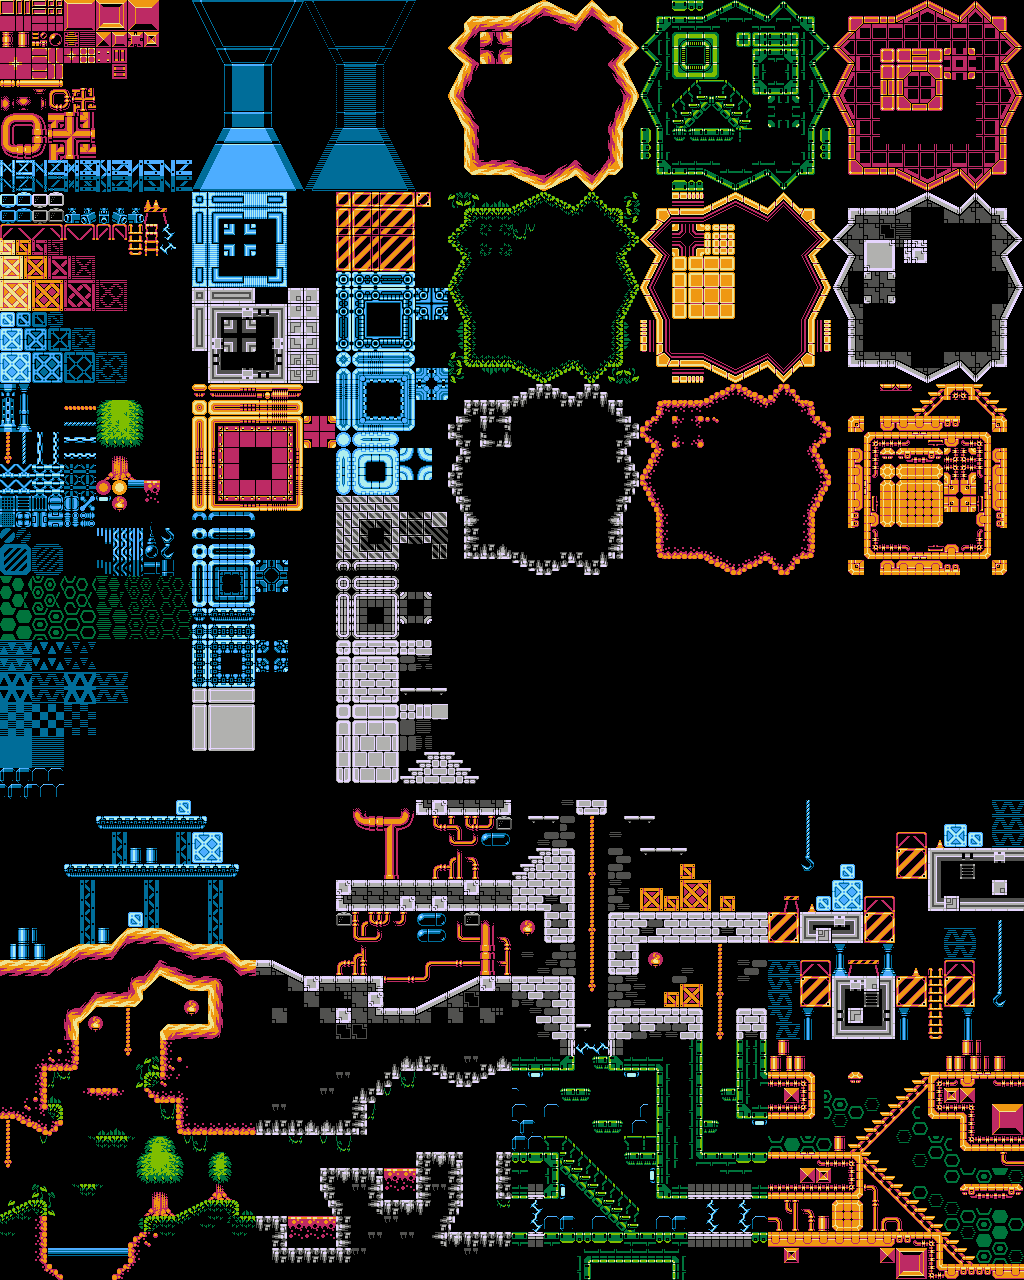
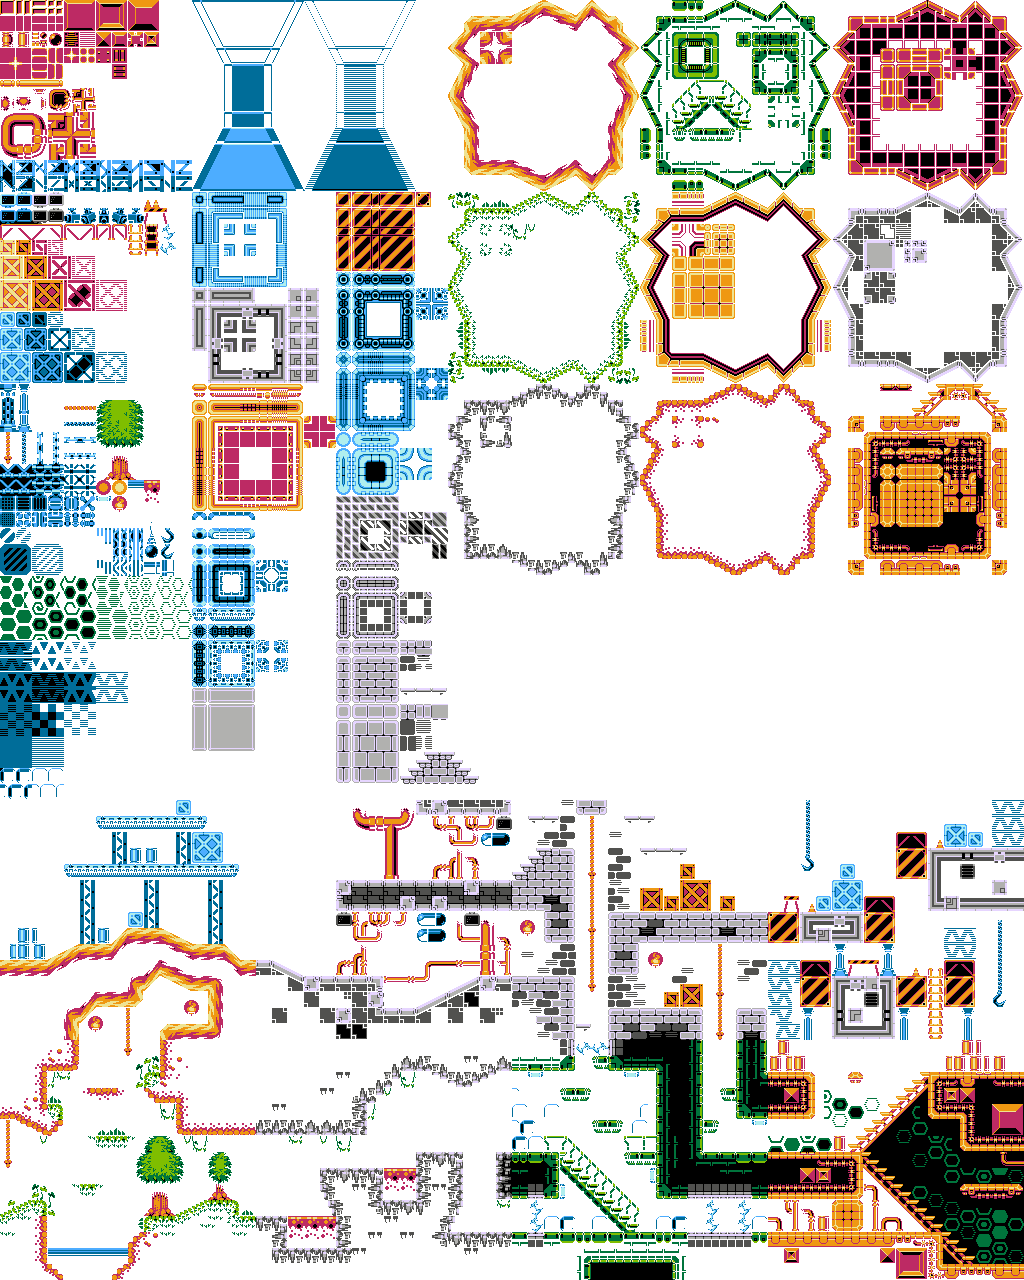
Intermediate commit to back up some stuff

diff --git a/core/src/com/sillygames/killingSpree/managers/WorldRenderer.java b/core/src/com/sillygames/killingSpree/managers/WorldRenderer.java
@@ -1,17 +1,28 @@
-package com.sillygames.killingSpree.screens.managers;
+package com.sillygames.killingSpree.managers;
 
+import com.badlogic.gdx.Gdx;
+import com.badlogic.gdx.Application.ApplicationType;
 import com.badlogic.gdx.graphics.OrthographicCamera;
+import com.badlogic.gdx.graphics.g2d.SpriteBatch;
+import com.badlogic.gdx.maps.MapLayer;
+import com.badlogic.gdx.maps.MapObject;
+import com.badlogic.gdx.maps.MapProperties;
+import com.badlogic.gdx.maps.objects.PolygonMapObject;
 import com.badlogic.gdx.maps.tiled.TiledMap;
 import com.badlogic.gdx.maps.tiled.TiledMapTileLayer;
 import com.badlogic.gdx.maps.tiled.TmxMapLoader;
 import com.badlogic.gdx.maps.tiled.renderers.OrthogonalTiledMapRenderer;
+import com.badlogic.gdx.math.Polygon;
+import com.badlogic.gdx.physics.box2d.Body;
+import com.badlogic.gdx.physics.box2d.BodyDef;
 import com.badlogic.gdx.physics.box2d.BodyDef.BodyType;
 import com.badlogic.gdx.physics.box2d.Box2DDebugRenderer;
+import com.badlogic.gdx.physics.box2d.FixtureDef;
+import com.badlogic.gdx.physics.box2d.PolygonShape;
 import com.badlogic.gdx.physics.box2d.World;
 import com.badlogic.gdx.utils.viewport.FitViewport;
 import com.sillygames.killingSpree.controls.ControlsMessage;
 import com.sillygames.killingSpree.controls.InputController;
-import com.sillygames.killingSpree.managers.WorldManager;
 import com.sillygames.killingSpree.networking.MyClient;
 import com.sillygames.killingSpree.pooler.ObjectPool;
 
@@ -28,6 +39,7 @@ public class WorldRenderer {
     private TiledMap map;
     private boolean server;
     public final static float SCALE = 10;
+    SpriteBatch batch;
     
     public WorldRenderer(WorldManager worldManager) {
         this.worldManager = worldManager;
@@ -36,43 +48,51 @@ public class WorldRenderer {
             box2dRenderer = new Box2DDebugRenderer();
         }
         camera = new OrthographicCamera();
-        camera.setToOrtho(false, 600, 450);
+        camera.setToOrtho(false, 615, 450);
         box2dCamera = new OrthographicCamera();
-        box2dCamera.setToOrtho(false, 600/SCALE, 450/SCALE);
-        viewport = new FitViewport(600, 450, camera);
-        box2dViewport = new FitViewport(600/SCALE, 450/SCALE, box2dCamera);
+        box2dCamera.setToOrtho(false, 615/SCALE, 450/SCALE);
+        viewport = new FitViewport(615, 450, camera);
+        box2dViewport = new FitViewport(615/SCALE, 450/SCALE, box2dCamera);
+        batch = new SpriteBatch();
     }
 
     public void loadLevel(String level, boolean server) {
         this.server = server;
         map = new TmxMapLoader().load(level);
-        TiledMapTileLayer collision = (TiledMapTileLayer) map.
+        MapLayer collision =  map.
                 getLayers().get("collision");
-        collision.setVisible(false);
-        
-        if (server) {
-            for (int x = 0; x < collision.getWidth(); x++) {
-                for (int y = 0; y < collision.getHeight(); y++) {
-                    if(collision.getCell(x, y) != null) {
-                        worldManager.addBox(7.5f/SCALE, 
-                                7.5f/SCALE,
-                                (x * 15f + 7.5f)/SCALE,
-                                (y * 15f + 7.5f)/SCALE,
-                                BodyType.StaticBody);
-                    }
-                }
-            }
+        for(MapObject object: collision.getObjects()) {
+            worldManager.createWorldObject(object);
         }
+        
+//        if (server) {
+//            for (int x = 0; x < collision.getWidth(); x++) {
+//                for (int y = 0; y < collision.getHeight(); y++) {
+//                    if(collision.getCell(x, y) != null) {
+//                        worldManager.addBox(7.5f/SCALE, 
+//                                7.5f/SCALE,
+//                                (x * 15f + 7.5f)/SCALE,
+//                                (y * 15f + 7.5f)/SCALE,
+//                                BodyType.StaticBody);
+//                    }
+//                }
+//            }
+//        }
         renderer = new OrthogonalTiledMapRenderer(map);
     }
 
-    public void render() {
+    public void render(float delta) {
         renderer.setView(camera);
-        renderer.render();
         if (server) {
-            box2dRenderer.render(world, box2dCamera.combined);
+            renderer.render();
+            batch.setProjectionMatrix(camera.combined);
+            batch.begin();
+            worldManager.player.updateAndRender(delta, batch);
+            batch.end();
+//            box2dRenderer.render(world, box2dCamera.combined);
         }
-        processControls();
+        if(Gdx.app.getType() == ApplicationType.Android)
+            processControls();
     }
 
     private void processControls() {

diff --git a/core/src/com/sillygames/killingSpree/managers/WorldManager.java b/core/src/com/sillygames/killingSpree/managers/WorldManager.java
@@ -1,5 +1,12 @@
 package com.sillygames.killingSpree.managers;
 
+import com.badlogic.gdx.Gdx;
+import com.badlogic.gdx.maps.MapObject;
+import com.badlogic.gdx.maps.MapProperties;
+import com.badlogic.gdx.maps.objects.PolygonMapObject;
+import com.badlogic.gdx.maps.objects.RectangleMapObject;
+import com.badlogic.gdx.math.Polygon;
+import com.badlogic.gdx.math.Rectangle;
 import com.badlogic.gdx.math.Vector2;
 import com.badlogic.gdx.physics.box2d.Body;
 import com.badlogic.gdx.physics.box2d.BodyDef;
@@ -21,11 +28,10 @@ import com.sillygames.killingSpree.pooler.ObjectPool;
 public class WorldManager {
     
     World world;
-    
+    public final Player player = new Player(0, 0);
     public WorldManager(){
-        world = new World(new Vector2(0, -50f), false);
-        final Player player = new Player(0, 0);
-        player.setBody(addBox(1f, 1f, 20, 30, BodyType.DynamicBody));
+        world = new World(new Vector2(0, -70f), false);
+        player.setBody(addBox(0.8f, 1f, 20, 30, BodyType.DynamicBody));
         MyServer.instance.server.addListener(new Listener() {
             @Override
             public void received(Connection connection, Object object) {
@@ -53,9 +59,9 @@ public class WorldManager {
         return createBody(x, y, type, circle);
     }
     
-    public Body addBox(float h, float w, float x, float y, BodyType type){
+    public Body addBox(float w, float h, float x, float y, BodyType type){
         PolygonShape square = new PolygonShape();
-        square.setAsBox(h, w);
+        square.setAsBox(w, h);
         return createBody(x, y, type, square);
     }
     
@@ -73,6 +79,39 @@ public class WorldManager {
         body.setFixedRotation(true);
         shape.dispose();
         return body;
+    }
+    
+    public void createWorldObject(MapObject object) {
+        Gdx.app.log("test", "test");
+        FixtureDef fixture = new FixtureDef();
+        BodyDef bodyDef = new BodyDef();
+        MapProperties properties = object.getProperties();
+        bodyDef.position.x = (Float) properties.get("x") /WorldRenderer.SCALE;
+        bodyDef.position.y = (Float) properties.get("y") /WorldRenderer.SCALE;
+        Body body = world.createBody(bodyDef);
+        PolygonShape shape = new PolygonShape();
+        if (object instanceof PolygonMapObject) {
+            Polygon polygon = ((PolygonMapObject) object).getPolygon();
+            
+            polygon.setPosition(polygon.getX() / WorldRenderer.SCALE - body.getPosition().x,
+                    polygon.getY() /WorldRenderer.SCALE - body.getPosition().y);
+            polygon.setScale(1f/WorldRenderer.SCALE, 1f/WorldRenderer.SCALE);
+            ((PolygonShape) shape).set(polygon.getTransformedVertices());
+            
+        } else if (object instanceof RectangleMapObject) {
+            Gdx.app.log("test", "rectangle");
+            Rectangle rectangle = ((RectangleMapObject) object).getRectangle();
+            rectangle.x /= WorldRenderer.SCALE;
+            rectangle.y /= WorldRenderer.SCALE;
+            rectangle.width /= WorldRenderer.SCALE;
+            rectangle.height /= WorldRenderer.SCALE;
+            ((PolygonShape) shape).setAsBox(rectangle.width / 2, rectangle.height / 2, 
+                    new Vector2(rectangle.x - body.getPosition().x + rectangle.width / 2, 
+                            rectangle.y - body.getPosition().y + rectangle.height / 2), 
+                            body.getAngle());
+        }
+        fixture.shape = shape;
+        body.createFixture(fixture);
     }
 
 }

diff --git a/core/src/com/sillygames/killingSpree/entities/Player.java b/core/src/com/sillygames/killingSpree/entities/Player.java
@@ -1,17 +1,24 @@
 package com.sillygames.killingSpree.entities;
 
 import com.badlogic.gdx.Gdx;
+import com.badlogic.gdx.graphics.Texture;
+import com.badlogic.gdx.graphics.g2d.Sprite;
+import com.badlogic.gdx.graphics.g2d.SpriteBatch;
 import com.badlogic.gdx.math.Vector2;
 import com.badlogic.gdx.physics.box2d.Body;
 import com.sillygames.killingSpree.controls.ControlsMessage;
-import com.sillygames.killingSpree.screens.managers.WorldRenderer;
+import com.sillygames.killingSpree.managers.WorldRenderer;
 
 public class Player extends Entity{
 
     private Body body;
+    Sprite sprite;
     
     public Player(float x, float y) {
         super(x, y);
+        Texture texture = new Texture(Gdx.files.internal("sprites/player.png"));
+        sprite = new Sprite(texture);
+        sprite.setSize(2 * WorldRenderer.SCALE, 2 * WorldRenderer.SCALE);
     }
     
     public Body getBody() {
@@ -23,7 +30,24 @@ public class Player extends Entity{
     }
     
     @Override
-    public void update() {
+    public void updateAndRender(float delta, SpriteBatch batch) {
+        // Server
+        if(body != null) {
+            processPlayer();
+            position = body.getPosition();
+        }
+        renderPlayer(batch);
+        
+    }
+
+    private void renderPlayer(SpriteBatch batch) {
+        sprite.setPosition(position.x * WorldRenderer.SCALE - sprite.getWidth() / 2,
+                position.y * WorldRenderer.SCALE - sprite.getHeight() / 2);
+        sprite.draw(batch);
+    }
+
+    private void processPlayer() {
+        // TODO Auto-generated method stub
         
     }
 
@@ -60,7 +84,6 @@ public class Player extends Entity{
             body.applyLinearImpulse(0, 100f, 0, 0, true);
         }
         if (x!=0 || y!=0){
-            Gdx.app.log(Float.toString(x), Float.toString(y));
             body.setLinearVelocity(x * 10, body.getLinearVelocity().y);
         } else {
             Vector2 velocity = body.getLinearVelocity();
@@ -87,6 +110,9 @@ public class Player extends Entity{
             body.setTransform(position, 0);
         }
         
+        if (body.getLinearVelocity().y < -30f) {
+            body.setLinearVelocity(body.getLinearVelocity().x, -20f);;
+        }
         
     }
     

diff --git a/core/src/com/sillygames/killingSpree/pooler/ObjectPool.java b/core/src/com/sillygames/killingSpree/pooler/ObjectPool.java
@@ -1,5 +1,6 @@
 package com.sillygames.killingSpree.pooler;
 
+import com.badlogic.gdx.Gdx;
 import com.badlogic.gdx.utils.Pool;
 import com.sillygames.killingSpree.controls.ControlsMessage;
 import com.sillygames.killingSpree.networking.messages.ConnectMessage;
@@ -9,10 +10,11 @@ public class ObjectPool {
     public static ObjectPool instance = new ObjectPool();
     public ConnectMessagePool connectMessagePool;
     public ControlsMessagePool controlsMessagePool;
+    private int count = 0;
     
     public ObjectPool() {
         connectMessagePool = new ConnectMessagePool();
-        controlsMessagePool = new ControlsMessagePool();
+        controlsMessagePool = new ControlsMessagePool(2, 32);
         
     }
     
@@ -27,9 +29,27 @@ public class ObjectPool {
     
     public class ControlsMessagePool extends Pool<ControlsMessage> {
         
+        public ControlsMessagePool(int initial, int max) {
+            super(initial, max);
+        }
+
         @Override
         protected ControlsMessage newObject() {
             return new ControlsMessage();
+        }
+        
+        @Override
+        public ControlsMessage obtain() {
+            count++;
+            Gdx.app.log("obtain", Integer.toString(count));
+            return super.obtain();
+        }
+        
+        @Override
+        public void free(ControlsMessage object) {
+            count--;
+            Gdx.app.log("free", Integer.toString(count));
+            super.free(object);
         }
         
     }

diff --git a/core/src/com/sillygames/killingSpree/KillingSpree.java b/core/src/com/sillygames/killingSpree/KillingSpree.java
@@ -1,10 +1,13 @@
 package com.sillygames.killingSpree;
 
+import java.io.IOException;
+
 import com.badlogic.gdx.ApplicationAdapter;
 import com.badlogic.gdx.Gdx;
 import com.badlogic.gdx.Screen;
 import com.sillygames.killingSpree.networking.MyClient;
 import com.sillygames.killingSpree.networking.MyServer;
+import com.sillygames.killingSpree.screens.GameScreen;
 import com.sillygames.killingSpree.screens.SplashScreen;
 
 public class KillingSpree extends ApplicationAdapter {
@@ -16,7 +19,16 @@ public class KillingSpree extends ApplicationAdapter {
     
 	@Override
 	public void create () {
-	    currentScreen = new SplashScreen(this);
+	    GameScreen gameScreen = new GameScreen(this);
+        gameScreen.loadLevel("maps/retro.tmx", true);
+        MyServer.instance.start();
+        try {
+            MyClient.instance.client.connect(5000, "localhost", 2000, 3000);
+        } catch (IOException e) {
+            // TODO Auto-generated catch block
+            e.printStackTrace();
+        }
+        currentScreen = gameScreen;
 	    currentScreen.show();
 	}
 

diff --git a/core/src/com/sillygames/killingSpree/screens/GameScreen.java b/core/src/com/sillygames/killingSpree/screens/GameScreen.java
@@ -4,7 +4,7 @@ import com.badlogic.gdx.Gdx;
 import com.badlogic.gdx.graphics.GL20;
 import com.sillygames.killingSpree.KillingSpree;
 import com.sillygames.killingSpree.managers.WorldManager;
-import com.sillygames.killingSpree.screens.managers.WorldRenderer;
+import com.sillygames.killingSpree.managers.WorldRenderer;
 
 public class GameScreen extends AbstractScreen {
     public static final String TAG = "GameScreen";
@@ -25,7 +25,7 @@ public class GameScreen extends AbstractScreen {
         if (server) {
             world.update(delta);
         }
-        renderer.render();
+        renderer.render(delta);
     }
 
     @Override

diff --git a/core/src/com/sillygames/killingSpree/entities/Entity.java b/core/src/com/sillygames/killingSpree/entities/Entity.java
@@ -1,5 +1,6 @@
 package com.sillygames.killingSpree.entities;
 
+import com.badlogic.gdx.graphics.g2d.SpriteBatch;
 import com.badlogic.gdx.math.Vector2;
 
 public abstract class Entity {
@@ -19,6 +20,6 @@ public abstract class Entity {
         return position;
     }
     
-    public abstract void update();
+    public abstract void updateAndRender(float delta, SpriteBatch batch);
 
 }

diff --git a/core/src/com/sillygames/killingSpree/controls/ControlsMessage.java b/core/src/com/sillygames/killingSpree/controls/ControlsMessage.java
@@ -21,6 +21,7 @@ public class ControlsMessage implements Poolable{
     // 2 - jump
     // 3 - shoot and jump
     public byte action = 0;
+    
     @Override
     public void reset() {
         action = 0;
